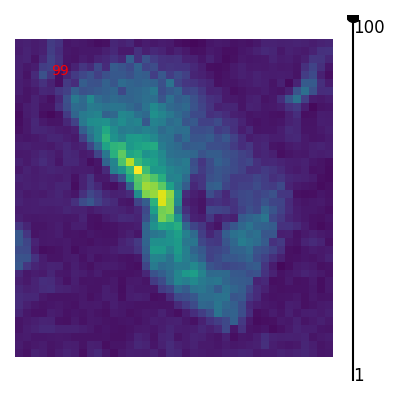
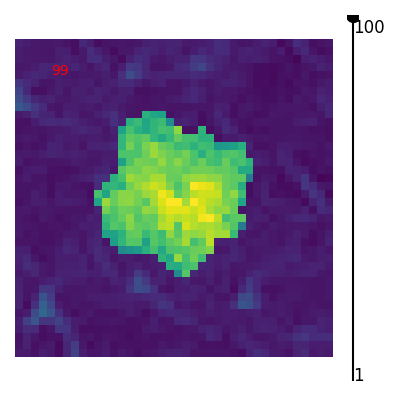
synthesis limit set to original nodule size

diff --git a/utils/utils_figs.py b/utils/utils_figs.py
@@ -48,21 +48,25 @@ def print_3d_horiz(dx):
                   else: print(f'{dx[j][i][k]:+d}',end = ' ')
       print()
 
-def blend_texture_and_synthetic_nodule(lesion_exp, text, THRESH0 = 0.04, THRESH1 = 0.025):
+def blend_texture_and_synthetic_nodule(lesion_exp, text, nodule, THRESH0 = 0.04, THRESH1 = 0.025):
     mask_lesion_exp = lesion_exp > THRESH0
     blend = lesion_exp * mask_lesion_exp + text * (1 - mask_lesion_exp)
     mask_lesion_eroded = (mask_lesion_exp).astype(int) - (binary_erosion(mask_lesion_exp) ).astype(int)
     mask_inpaint = (lesion_exp < THRESH1) *(lesion_exp>0)
-    blend = lesion_exp * mask_lesion_exp + text * (1 - mask_lesion_exp)
+    mask_orig = (nodule[20,...]>0).astype(int)
+    mask_orig_and_lesion = mask_orig * (mask_lesion_exp).astype(int)
+    blend = lesion_exp * mask_orig_and_lesion + text * (1 - mask_orig_and_lesion)
+    print(f'nodule = {nodule.shape}, mask_lesion_exp = {mask_lesion_exp.shape}, lesion_exp = {lesion_exp.shape}, text = {text.shape}')
+    # blend = lesion_exp * mask_lesion_exp + text * (1 - mask_lesion_exp)
     blend_inpain = inpaint.inpaint_biharmonic(blend, mask_inpaint)
     return blend_inpain, blend, mask_lesion_exp, mask_lesion_eroded, mask_inpaint
 
-def create_list_with_blended_nodules(nodule_growing, text, GROW_ITER = 100):  
+def create_list_with_blended_nodules(nodule_growing, text, nodule, GROW_ITER = 100):  
     ndls_generated = []
     gens = []
     for GEN in np.arange(0, GROW_ITER):
       lesion_exp = nodule_growing[GEN,20,...]
-      blend_inpain, blend, mask_lesion_exp, mask_lesion_eroded, mask_inpaint = blend_texture_and_synthetic_nodule(lesion_exp, text)
+      blend_inpain, blend, mask_lesion_exp, mask_lesion_eroded, mask_inpaint = blend_texture_and_synthetic_nodule(lesion_exp, text, nodule)
       ndls_generated.append(blend_inpain)
       gens.append(GEN)
     return ndls_generated, gens

diff --git a/app.py b/app.py
@@ -36,7 +36,7 @@ print(model_chosen)
 plt.figure(figsize=(2,2))
 plt.imshow(np.squeeze(nodule[15]), vmin=0, vmax=1)
 plt.axis('off')
-plt.savefig('results/nodule_chosen.png')
+plt.savefig('results/nodule_chosen.png') 
 col01.image('results/nodule_chosen.png')
 st.session_state['test']=1
 if 'change_synthetic' not in st.session_state: 
@@ -61,8 +61,10 @@ if apply_model:
     ca = CAModel3D()
     ca.load_weights(f'{path_models}/{model_chosen}')
     nodule_growing = grow_nodule(ca, my_bar, GROW_ITER = 100)
-    # text_box.text_area(f'{len(nodule_growing)}')
-    ndls_generated, gens = create_list_with_blended_nodules(nodule_growing, st.session_state['texture'])
+    pad=4
+    nodule_padded = np.pad(np.squeeze(nodule),((pad,pad),(pad,pad),(pad,pad)))
+    # text_box.text_area(f'{len(nodule_growing), np.shape(nodule_growing), np.shape(nodule_padded), np.min(nodule_padded), np.max(nodule_padded)}')
+    ndls_generated, gens = create_list_with_blended_nodules(nodule_growing, st.session_state['texture'], nodule_padded)
     # fig_list_with_blended_nodules(ndls_generated)
     # st.image('results/nodule_growing.png')    
     fig_for_gif(ndls_generated, gens, bar_gif)

diff --git a/README.md b/README.md
@@ -4,6 +4,9 @@
 In a previous study we use inpainting and NCA to synthetize lung nodules (https://ieeexplore.ieee.org/document/9433893). Here, we generate the healthy tissue on the background as an alternative approach.   
 This work is based on the NCA developed by _**Mordvintsev A.**, et al., "Growing Neural Cellular Automata", Distill, 2020._
 
+## API demo
+![api_demo](/github_images/gif_nodule_synthesis_api.gif?raw=true)
+
 ## Create healthy background
 ![texture_and_mask_lung](/github_images/texture_and_mask_lung.png?raw=true) 
 First we need to collect images of healthy lung tissue (without lung nodules or covid lesions):   
